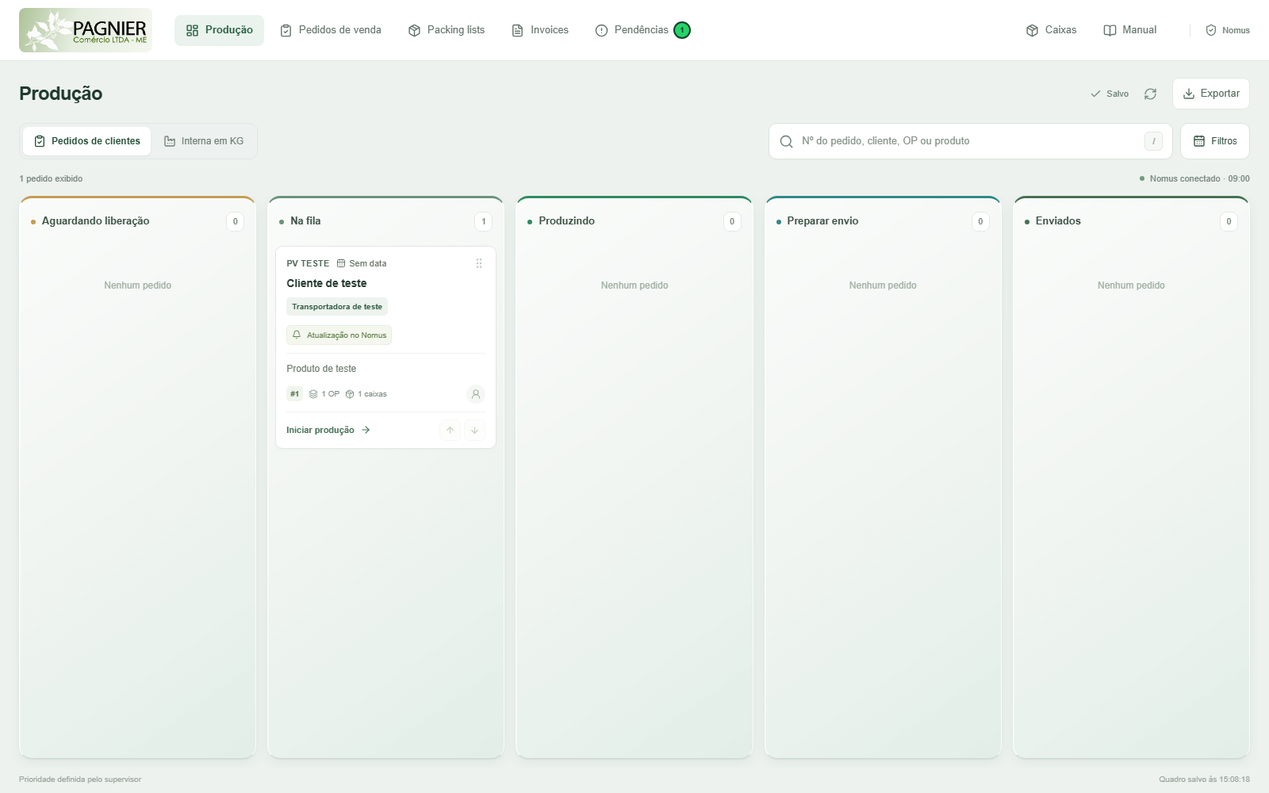
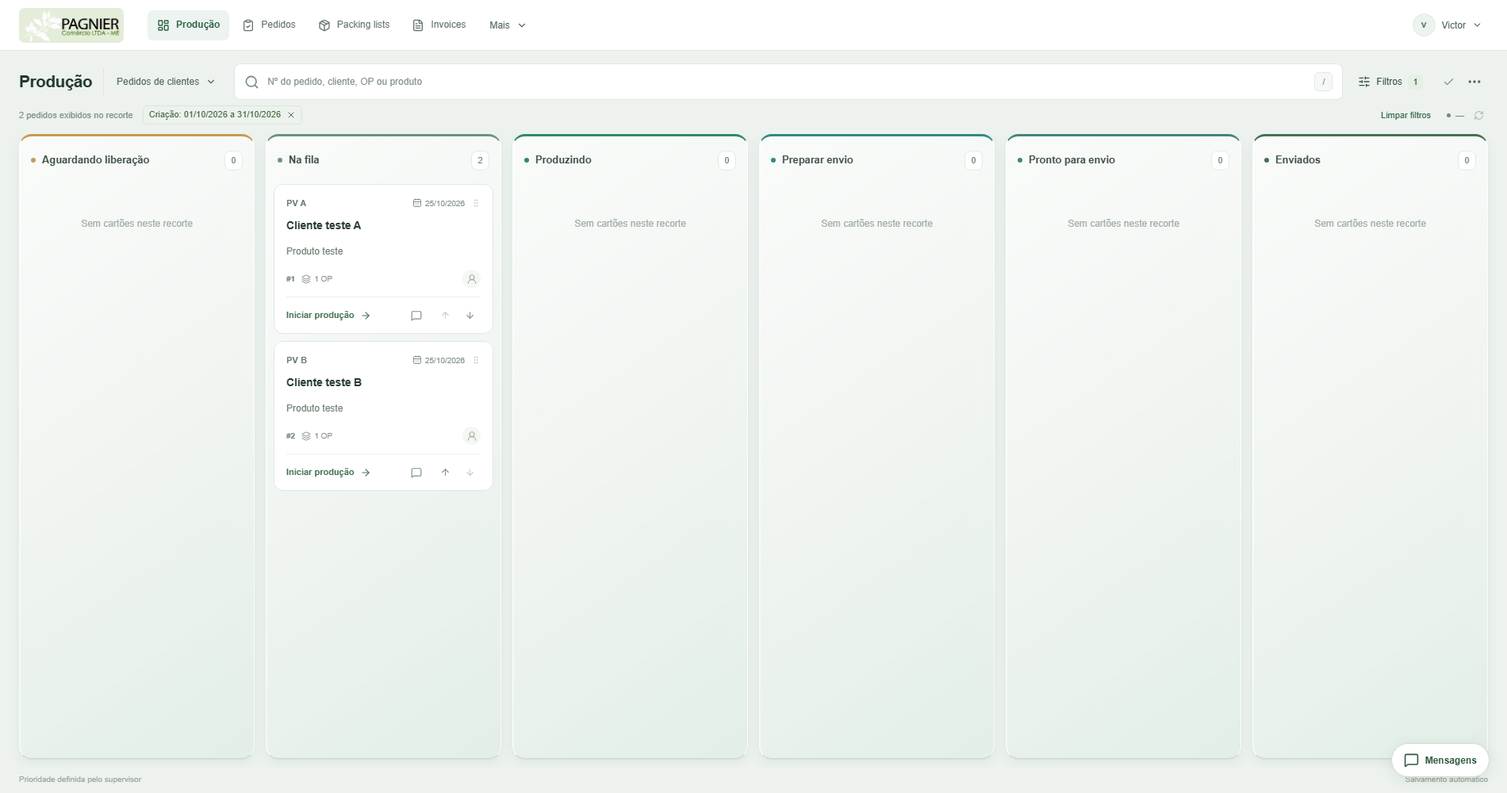
fix: show pending saves and refresh the operating manual

diff --git a/lib/manual.ts b/lib/manual.ts
@@ -22,7 +22,7 @@ export const manual = [
   {
     "category": "documents",
     "title": "Como baixar o packing list em Excel",
-    "text": "Abra Packing lists → envio existente → Revisar e baixar → Baixar Excel editável. Aguarde Salvo. As caixas precisam estar conferidas fisicamente. A planilha contém Packing list, Produtos, Caixas e Guia e pendências. Dados documentais incompletos são sinalizados na planilha e não impedem a cópia editável. O PDF final exige resolver as pendências e confirmar a revisão. Alterações no Excel não voltam ao painel; atualize também o sistema se precisar gerar aqui um PDF com os mesmos dados. Nenhum download registra o despacho."
+    "text": "Abra Packing lists → envio existente → Revisar e baixar → Baixar Excel editável. Aguarde o salvamento e confira fisicamente as caixas. O arquivo tem quatro abas, todas sem linhas ou colunas congeladas: Packing list, Produtos, Caixas e Guia e pendências. A aba principal reúne exportador, comprador/importador, destinatário, condições comerciais, transporte, totais e produtos por caixa. Medidas, pesos e unidades aparecem junto de cada caixa. As abas Produtos e Caixas alimentam as fórmulas da principal. Pendências documentais são sinalizadas e não impedem a cópia editável; o PDF final exige resolvê-las e confirmar a revisão. Alterações no Excel não voltam ao painel. Nenhum download registra despacho."
   },
   {
     "category": "documents",
@@ -47,12 +47,12 @@ export const manual = [
   {
     "category": "start",
     "title": "Menu superior do sistema",
-    "text": "A barra superior reúne Produção, Pedidos de venda, Packing lists, Invoices, Pendências, Caixas e Manual. No celular, deslize o menu na horizontal para acessar as demais opções. No computador, o tipo de produção, a busca e os filtros compartilham a mesma faixa abaixo do título. No celular, os controles se ajustam à largura da tela. Caixas abre os modelos reutilizáveis; a montagem continua dentro de cada envio."
+    "text": "No topo ficam Produção, Pedidos, Packing lists e Invoices. Abra Mais para Pendências, Arquivados, Modelos de caixas e Manual. No menu com seu nome ou suas iniciais ficam o modo claro/escuro e Sair ou trocar funcionário. Em Produção, clique em Pedidos de clientes para alternar para Interna em KG. A busca e Filtros permanecem visíveis; o botão de três pontos abre Recarregar quadro e Exportar planilha. Os mesmos menus funcionam no celular. Escape, clique fora ou saída do foco fecham o menu."
   },
   {
     "category": "production",
     "title": "Aguardando liberação e Na fila",
-    "text": "A primeira coluna do quadro, Aguardando liberação, reúne os pedidos ainda pendentes no Nomus. Havendo itens liberados e OP gerada, o pedido entra em Na fila na próxima consulta, inclusive se a liberação for parcial. No cartão, abra o aviso para ver quais itens ainda não foram liberados; a aba Geral também mostra produto, item e quantidade. Se há itens atendidos e outros ainda pendentes, o pedido com OP permanece na fila e a situação comercial fica recolhida em Ver situação do pedido no Nomus, sem alertar falta de produção. A aba Geral mostra o resumo das OPs com o mesmo cálculo da coluna Produzido na Expedição. O resumo só informa conclusão quando todas as OPs exibidas têm a quantidade produzida completa. Isso não indica produção pendente: uma OP pode ter toda a quantidade produzida enquanto o item do pedido permanece Liberado. O aviso informa a data da consulta do pedido; ao abrir um pedido ele é priorizado na próxima consulta disponível e o botão de atualizar consulta esse pedido diretamente, respeitando os intervalos e eventuais falhas. A quantidade exibida é a pedida, não um saldo calculado. Sem OP, o pedido liberado continua em Pedidos de venda aguardando sua criação. Pedidos já em produção, conferência ou expedição mantêm a etapa e os registros. Consultando liberação indica dados ainda não confirmados. Pedidos já na fila permanecem visíveis na etapa salva, com esse aviso; novos pedidos aguardam no catálogo. Pedidos de venda mantém o catálogo completo enquanto a consulta está incompleta. A liberação é feita no Nomus, sem alterações no ERP pelo painel."
+    "text": "A primeira coluna do quadro, Aguardando liberação, reúne os pedidos ainda pendentes no Nomus. Havendo itens liberados e OP gerada, o pedido entra em Na fila na próxima consulta, inclusive se a liberação for parcial. No cartão, abra o aviso para ver quais itens ainda não foram liberados; a aba Geral também mostra produto, item e quantidade. Se há itens atendidos e outros ainda pendentes, o pedido com OP permanece na fila e a situação comercial fica recolhida em Ver situação do pedido no Nomus, sem alertar falta de produção. A aba Geral mostra o resumo das OPs com o mesmo cálculo da coluna Produzido na Expedição. O resumo só informa conclusão quando todas as OPs exibidas têm a quantidade produzida completa. Isso não indica produção pendente: uma OP pode ter toda a quantidade produzida enquanto o item do pedido permanece Liberado. O aviso informa a data da consulta do pedido; ao abrir um pedido ele é priorizado na próxima consulta disponível e o botão de atualizar consulta esse pedido diretamente, respeitando os intervalos e eventuais falhas. A quantidade exibida é a pedida, não um saldo calculado. Pedidos liberados sem OP continuam em Aguardando liberação até confirmar os dados necessários. Pedidos exclusivamente de revenda, com todos os itens liberados e sem OP confirmada, entram direto em Preparar envio; produtos de fabricação aguardam a criação da OP. Pedidos já em produção, conferência ou expedição mantêm a etapa e os registros. Consultando liberação indica dados ainda não confirmados. Pedidos já na fila permanecem visíveis na etapa salva, com esse aviso; novos pedidos aguardam no catálogo. Pedidos de venda mantém o catálogo completo enquanto a consulta está incompleta. A liberação é feita no Nomus, sem alterações no ERP pelo painel."
   },
   {
     "category": "start",
@@ -72,7 +72,7 @@ export const manual = [
   {
     "category": "production",
     "title": "Pedidos de estoque sem OP",
-    "text": "Em Pedidos de venda, use Separar do estoque quando os produtos estiverem disponíveis e o Nomus confirmar que não há OP. O pedido entra em Preparar envio com seus produtos, seguindo a mesma montagem de caixas, agrupamento e documentação. A ação identifica a forma de atendimento; não confirma saldo nem baixa estoque no Nomus. Mudanças nos itens exigem revisão das caixas."
+    "text": "Artesanatos e demais itens classificados no Nomus como Mercadoria para revenda ou Produtos para revenda seguem automaticamente para Preparar envio quando o pedido está liberado, todos os itens estão liberados ou atendidos parcialmente, os produtos e quantidades estão identificados e a consulta confirma ausência de OP. Não é preciso criar OP nem clicar em Separar do estoque nesses casos. Pedidos mistos com produtos de fabricação seguem o fluxo normal de produção. Pedidos arquivados ou com trabalho iniciado mantêm seus registros. Para outros atendimentos de estoque, Separar do estoque continua disponível em Pedidos quando a liberação e a ausência de OP estiverem confirmadas. A ação não confirma saldo nem baixa estoque no Nomus. Confira fisicamente os produtos e revise as caixas se houver alterações."
   },
   {
     "category": "production",
@@ -107,7 +107,7 @@ export const manual = [
   {
     "category": "expedition",
     "title": "Corrija sem perder o conteúdo",
-    "text": "Em Caixas 40 montadas, selecione a caixa e use Voltar à montagem. Ela retorna à área de criação com seus produtos. Para uma menor já acomodada, Retirar para ajustar devolve a embalagem inteira com o conteúdo. Ajuste, finalize e confira novamente. Mudanças físicas exigem nova pesagem; alterações documentais exigem revisão do documento. Caixas só são excluídas vazias."
+    "text": "Em Caixas 40 montadas, selecione a caixa e use Voltar à montagem. Ela retorna à área de criação com seus produtos. Para uma menor já acomodada, Retirar para ajustar devolve a embalagem inteira com o conteúdo. Ajuste, finalize e confira novamente. Antes de excluir, confira os produtos envolvidos e digite EXCLUIR na confirmação: a exclusão da Caixa 40 retira aquele volume do envio e libera as quantidades para nova montagem. Mudanças físicas exigem nova pesagem e conferência; alterações documentais exigem nova revisão do documento."
   },
   {
     "category": "expedition",
@@ -122,12 +122,12 @@ export const manual = [
   {
     "category": "expedition",
     "title": "Onde configurar os modelos de caixa?",
-    "text": "Abra Configurações de caixas no menu do painel para cadastrar modelos, medidas, limite de peso e tara. Na montagem, escolha o modelo em Modelo para novas caixas antes de criar a Caixa 40. Alterar o cadastro do modelo vale para novas caixas; confira os dados das caixas já existentes. A pesagem real continua sendo feita em Caixas 40 montadas."
+    "text": "Abra Mais → Modelos de caixas para cadastrar medidas, limite de peso e tara. Na montagem, escolha Modelo para novas caixas antes de criar a Caixa 40. A alteração do modelo vale para novas caixas; confira os dados das caixas já existentes. A pesagem real continua sendo feita em Caixas 40 montadas."
   },
   {
     "category": "documents",
     "title": "Qual documento e qual formato usar",
-    "text": "Packing list descreve volumes e pode reunir pedidos; o site gera seu PDF. Invoice FedEx/DHL é comercial, contém um pedido e pode ser exportada em PDF ou Excel editável. Escolha conforme a operação; um não substitui automaticamente o outro. O PDF oficial do pedido de venda continua sendo gerado no Nomus."
+    "text": "Packing list descreve volumes, pode reunir pedidos e pode ser baixado em PDF ou Excel editável. Invoice FedEx/DHL é comercial, contém um pedido e também permite PDF ou Excel. Um documento não substitui automaticamente o outro. O PDF oficial do pedido de venda continua sendo gerado no Nomus."
   },
   {
     "category": "documents",
@@ -148,5 +148,20 @@ export const manual = [
     "category": "support",
     "title": "O que o sistema altera no Nomus",
     "text": "A integração é somente leitura. Prioridades, etapas, notas, caixas, documentos e rastreio são salvos no painel. O site não baixa estoque, fatura pedidos, encerra OPs nem altera o cadastro do Nomus. Exportar CSV considera os pedidos visíveis; informações ausentes podem depender da conclusão das consultas."
+  },
+  {
+    "category": "start",
+    "title": "Como saber se as alterações foram salvas",
+    "text": "Quando o salvamento termina, a barra mostra um sinal de confirmação; passe o mouse para ler Salvo. Enquanto houver mudanças pendentes, aparece Aguardando gravação; durante o envio, Salvando. Não salvo ou Sem sincronização exige atenção ao aviso na tela. Aguarde a confirmação antes de fechar, exportar ou trocar de funcionário. Recarregar quadro fica no menu de três pontos; leia o aviso antes de descartar alterações locais. O horário ao lado do indicador Nomus se refere à consulta do ERP, não ao salvamento das suas alterações."
+  },
+  {
+    "category": "documents",
+    "title": "Comprador, transporte e condições comerciais do packing list",
+    "text": "Em Dados do documento, Informações complementares aparece antes de Destinatário e entrega. Preencha comprador/importador quando diferente, referências e contatos confirmados. Informe país de origem e destino, Incoterm, pagamento, pré-transporte, local de recebimento, voo/navio, portos de embarque e desembarque e destino final conforme cada envio. Valores de demonstração não são padrões. Deixe vazios os opcionais que não se aplicam. Excel e PDF apresentam os dados comerciais e os produtos por caixa; a quantidade de unidades não é repetida em uma coluna extra."
+  },
+  {
+    "category": "support",
+    "title": "Artesanato liberado ainda não apareceu em Preparar envio",
+    "text": "Localize o pedido em Pedidos e confira sua liberação. A classificação de revenda vem do cadastro do produto no Nomus, não de palavras no nome. Verifique se há item de fabricação, item aguardando liberação, consulta pendente ou OP vinculada. Pedidos liberados sem OP têm prioridade para completar a classificação, mas as consultas são feitas por etapas. Use o indicador Nomus para conferir horário e atualizar; recarregar o quadro busca os dados já salvos no painel. Confira também os filtros e Mais → Arquivados antes de criar outro registro."
   }
 ];

diff --git a/lib/tutorials.ts b/lib/tutorials.ts
@@ -1,4 +1,4 @@
-export const manualEdition = {revision:"23",updatedAt:"20/10/2026"};
+export const manualEdition = {revision:"24",updatedAt:"27/10/2026"};
 export const manualCategories = [
   {
     "id": "start",
@@ -49,7 +49,12 @@ export const tutorials = [
       {
         "title": "Entenda o quadro de produção",
         "short": "Aguardando liberação → Na fila → Produzindo → Preparar envio → Pronto para envio → Enviados.",
-        "text": "Aguardando liberação reúne os pedidos pendentes no Nomus. Liberados com OP vão para Na fila; pedidos parcialmente liberados mostram os itens pendentes no cartão. Use os atalhos para iniciar e concluir a produção. O menu superior leva a Pedidos de venda, Packing lists, Invoices, Pendências, Caixas e Manual. No celular, deslize o menu."
+        "text": "Aguardando liberação reúne pedidos ainda não prontos para entrar no fluxo. Produtos de fabricação liberados com OP vão para Na fila. Pedidos somente de revenda, totalmente liberados e sem OP confirmada, vão direto para Preparar envio. Liberações parciais mantêm os itens pendentes identificados no cartão. No topo ficam Produção, Pedidos, Packing lists e Invoices; Mais reúne Pendências, Arquivados, Modelos de caixas e Manual."
+      },
+      {
+        "title": "Encontre as ações recolhidas",
+        "short": "Mais abre as telas de apoio. Seu nome abre tema e saída; os três pontos abrem recarga e exportação.",
+        "text": "A busca e Filtros ficam visíveis. Clique em Pedidos de clientes para alternar para Interna em KG. Os menus funcionam no computador e no celular; Escape fecha o menu e devolve o foco ao controle."
       },
       {
         "title": "Use o cartão do pedido",
@@ -63,8 +68,8 @@ export const tutorials = [
       },
       {
         "title": "Confirme o salvamento",
-        "text": "Aguarde Salvo antes de sair, exportar ou excluir. Consulte Pendências e ajuda se houver falha ou conflito entre sessões.",
-        "short": "Antes de sair, espere aparecer Salvo."
+        "text": "Aguarde o sinal de confirmação de salvamento antes de sair, exportar ou excluir. Passe o mouse no sinal para ler Salvo. Aguardando gravação e Salvando indicam que ainda há trabalho pendente. Não salvo ou Sem sincronização exige conferir o aviso antes de continuar.",
+        "short": "Espere a confirmação de salvamento. Aguardando gravação, Salvando e falhas continuam visíveis."
       },
       {
         "title": "Saiba de onde vêm os dados",
@@ -141,13 +146,13 @@ export const tutorials = [
       },
       {
         "title": "Verifique os vínculos",
-        "text": "Uma OP comum deve estar vinculada ao pedido e ao item correto no Nomus. Se faltar vínculo, consulte Pendências. Não associe somente por semelhança de produto ou cliente.",
-        "short": "Confira se a OP está ligada ao pedido correto. Se faltar vínculo, abra Pendências."
+        "text": "Produtos de fabricação precisam da OP ligada ao pedido e ao item correto no Nomus. Para falhas de vínculo, abra Mais → Pendências. Artesanatos e outros produtos de revenda podem seguir sem OP quando classificados e liberados. Não associe OPs por semelhança de nome.",
+        "short": "Confira o vínculo quando houver produção. Revenda liberada pode seguir sem OP."
       },
       {
         "title": "Identifique o que já existe",
-        "text": "Se o pedido já tiver caixas ou documento, retome o cadastro existente. Se os produtos saem do estoque, use Separar do estoque no catálogo: o pedido entra em Preparar envio sem OP. Aguarde a confirmação de vínculo e os itens completos no Nomus antes dessa ação.",
-        "short": "Se já houver caixas ou documento, abra o cadastro existente."
+        "text": "Retome caixas e documentos existentes. Pedidos compostos apenas por Mercadoria para revenda ou Produtos para revenda entram automaticamente em Preparar envio quando todos os itens estão liberados ou atendidos parcialmente, seus dados estão completos e a ausência de OP está confirmada. Pedidos mistos seguem o fluxo de produção. Separar do estoque continua disponível para os demais atendimentos confirmados de estoque. Essa escolha não registra baixa no Nomus.",
+        "short": "Revenda liberada segue para Preparar envio. Se já houver caixas ou documentos, continue no mesmo cadastro."
       }
     ],
     "done": "Cliente, pedido e origem dos produtos foram conferidos.",
@@ -190,8 +195,8 @@ export const tutorials = [
       },
       {
         "title": "Arquive pedidos antigos",
-        "short": "Abra Outras ações, escolha o motivo e confirme. Consulte o histórico ou restaure um pedido disponível na aba Arquivados.",
-        "text": "No cartão ou em Pedidos de venda, abra Outras ações e escolha um dos motivos de arquivamento listados. Na janela seguinte, preencha a observação se necessário e confirme. O arquivamento é manual e vale para toda a equipe; não depende de concluir produção, conferência ou documentos. Os dados ficam preservados. Para consultar ou restaurar, abra Arquivados no menu principal. Restaurar mantém a etapa anterior e fica disponível enquanto o pedido estiver na base consultada. O histórico registra cada arquivamento e restauração. Nenhuma dessas ações altera o Nomus."
+        "short": "Arquive em Outras ações e consulte ou restaure em Mais → Arquivados.",
+        "text": "No cartão ou em Pedidos, abra Outras ações e escolha o motivo de arquivamento. Preencha a observação quando necessária e confirme. O arquivamento é manual e compartilhado, preserva os dados e não depende de concluir as etapas. Consulte o histórico ou restaure em Mais → Arquivados, enquanto o pedido estiver disponível na base consultada. Nenhuma dessas ações altera o Nomus."
       }
     ],
     "done": "Os produtos estão disponíveis para conferência e as diferenças foram verificadas.",
@@ -289,7 +294,7 @@ export const tutorials = [
       {
         "title": "Pese e meça as caixas montadas",
         "short": "Em Caixas 40 montadas, selecione cada caixa e informe dimensões em cm e peso bruto real em kg.",
-        "text": "Pese a caixa pronta, incluindo produtos, embalagens e proteções. Registre dimensões externas em cm e peso bruto em kg; a conversão para lb é automática. O peso líquido soma os produtos. Limite de peso e tara ficam recolhidos; a tara inclui embalagens vazias e proteções. Caixa 40 é o nome do modelo, não uma medida. Cadastros de modelos ficam no menu Configurações de caixas, fora da montagem. Mudanças físicas no conteúdo exigem nova pesagem."
+        "text": "Pese a caixa pronta, incluindo produtos, embalagens e proteções. Registre dimensões externas em cm e peso bruto em kg; a conversão para lb é automática. O peso líquido soma os produtos. Limite de peso e tara ficam recolhidos; a tara inclui embalagens vazias e proteções. Caixa 40 é o nome do modelo, não uma medida. Cadastros de modelos ficam em Mais → Modelos de caixas, fora da montagem. Mudanças físicas no conteúdo exigem nova pesagem."
       },
       {
         "title": "Confirme a conferência física",
@@ -401,13 +406,13 @@ export const tutorials = [
       },
       {
         "title": "Etapa 2 — Itens e caixas",
-        "short": "Confira descrição documental, HS Code, embalagem, lote e validade dos produtos.",
+        "short": "Confira descrição documental, HS Code, embalagem, unidades e pesos. Lote e validade continuam no cadastro interno.",
         "text": "As caixas precisam da conferência física na Expedição. Se faltar essa confirmação, use o atalho para conferir. Para ajustes físicos, volte à montagem; depois pese e confira novamente. Dados documentais não substituem a contagem física. Se a mesma OP estiver em várias caixas, use Completar dados repetidos para aproveitar apenas os campos documentais vazios. Correções existentes, quantidades, pesos, lotes e validades são preservados; dados divergentes não são propagados."
       },
       {
         "title": "Etapa 3 — Dados do documento",
-        "short": "Preencha invoice, datas, exportador, destinatário, países e responsável pela revisão.",
-        "text": "Use Preencher ou Revisar para localizar campos pendentes. Comprador diferente, referências, transporte e condições comerciais devem corresponder ao envio; dados opcionais podem ficar vazios quando não se aplicarem."
+        "short": "Confira invoice, países, comprador/importador, destinatário, transporte e condições reais do envio.",
+        "text": "Informações complementares aparece antes de Destinatário e entrega. Preencha comprador/importador diferente, referências e contatos quando aplicáveis. Confira países de origem e destino, Incoterm, pagamento, pré-transporte, local de recebimento, voo/navio, portos e destino final. Cada envio usa seus próprios dados; os exemplos não são padrões. Opcionais sem aplicação podem ficar vazios. O responsável pela revisão fica registrado internamente."
       },
       {
         "title": "Etapa 4 — Revisar e baixar",
@@ -416,8 +421,8 @@ export const tutorials = [
       },
       {
         "title": "Se precisar de planilha, baixe o Excel",
-        "short": "Clique em Baixar Excel editável na etapa Revisar e baixar.",
-        "text": "O arquivo .xlsx tem quatro abas: Packing list (referências e totais), Produtos (uma linha por produto em cada caixa), Caixas (medidas e pesos) e Guia e pendências. Após salvar e conferir fisicamente as caixas, é possível baixar a cópia editável mesmo com pendências documentais. Elas são listadas na planilha. O Excel não exige a confirmação de emissão do PDF."
+        "short": "Baixar Excel editável gera quatro abas, todas sem linhas ou colunas congeladas.",
+        "text": "A aba Packing list reúne dados das partes, transporte, condições comerciais, totais e produtos por caixa. Dimensões, pesos e unidades aparecem junto de cada caixa. Produtos e Caixas alimentam as fórmulas da principal; Guia e pendências reúne as orientações. Não há coluna duplicada de quantidade. OP, SKU, lote, validade e nomes internos dos funcionários não integram esse layout de exportação. Após salvar e conferir as caixas, o Excel pode ser baixado com pendências documentais sinalizadas; o PDF final exige resolvê-las e confirmar a revisão."
       },
       {
         "title": "Mantenha os dados consistentes",
@@ -570,8 +575,8 @@ export const tutorials = [
     "steps": [
       {
         "title": "Identifique o tipo de pendência",
-        "text": "Falta vincular o pedido exige correção no Nomus. Aguardando confirmação depende da consulta. O número verde na aba Pendências conta OPs sem vínculo no recorte permitido; abrir a aba não elimina a pendência.",
-        "short": "Abra Pendências e veja se falta vínculo ou se o sistema ainda aguarda a consulta."
+        "text": "Abra Mais → Pendências. Falta vincular o pedido exige correção no Nomus; Aguardando confirmação depende da consulta. O contador de Mais e da opção Pendências indica OPs sem vínculo no recorte permitido. Abrir a tela não elimina a pendência.",
+        "short": "Abra Mais → Pendências e veja se falta vínculo ou se o sistema aguarda a consulta."
       },
       {
         "title": "Corrija o vínculo na origem",
@@ -585,8 +590,8 @@ export const tutorials = [
       },
       {
         "title": "Recupere o salvamento",
-        "text": "Se aparecer Não salvo, mantenha a tela aberta e use Tentar novamente. Se outra sessão mudou o quadro, preserve suas edições e recarregue para conferir a versão compartilhada antes de continuar.",
-        "short": "Se aparecer Não salvo, mantenha a tela aberta e tente novamente. Em conflito, preserve suas edições antes de recarregar."
+        "text": "Se aparecer Não salvo, mantenha a tela aberta e use Tentar novamente. Aguardando gravação e Salvando indicam trabalho ainda pendente. Em conflito entre sessões, preserve suas edições e use Recarregar quadro no menu de três pontos para conferir a versão compartilhada. Recarregar não realiza uma nova consulta ao Nomus; use o indicador do ERP para isso.",
+        "short": "Não salvo: tente novamente. Em conflito, preserve suas edições antes de recarregar pelo menu de três pontos."
       },
       {
         "title": "Confira a última captura",

diff --git a/app/production-dashboard.tsx b/app/production-dashboard.tsx
@@ -286,7 +286,7 @@ export default function Dashboard({employee,sessionActive,onSessionExpired,onSig
  }
  const showCaptureInStrip=!["invoices","packing","help","sales","archived"].includes(tab);
  const nomusCapture=<NomusCapture lastChecked={sync?.lastChecked} configured={sync?.configured} busy={nomusBusy} disabled={!data||!sessionActive} error={syncError} notice={syncNotice} partial={sync?.partial} onRefresh={()=>void refreshNomus.current(true)}/>;
- const saveIndicator=<span title={saveText+" · "+(liveNotice||"Salvamento das alterações do painel")} className={"autosave-status "+(error&&dirty||liveError?"failed":saving?"is-saving":"is-saved")} role="status" aria-live="polite">{saving?<LoaderCircle size={15} className="spin"/>:error&&dirty||liveError?<AlertCircle size={15}/>:<Check size={15}/>}<span>{saveText}</span></span>;
+ const saveIndicator=<span title={saveText+" · "+(liveNotice||"Salvamento das alterações do painel")} className={"autosave-status "+(error&&dirty||liveError?"failed":saving?"is-saving":dirty?"is-pending":"is-saved")} role="status" aria-live="polite">{saving||dirty&&!error?<LoaderCircle size={15} className="spin"/>:error&&dirty||liveError?<AlertCircle size={15}/>:<Check size={15}/>}<span>{saveText}</span></span>;
  function openCard(id:string){if(Date.now()-lastDragEnd.current<300)return;setSelected(id);setDetailTab("overview");setChangeOpen(false)}
  function nextLabel(id:string){const g=groups.find(g=>g.id===id);if(g&&(awaitsRelease(g,board.details[id])||!canQueue(g)&&!hasStarted(board.details[id])))return "Ver pedido";return ({backlog:"Ver pedido",queue:"Iniciar produção",doing:"Concluir produção",blocked:"Ver o impedimento",done:"Conferir pedido",shipping:"Preparar envio",ready:"Ver envio",sent:"Ver rastreio"})[stage(board,id)]}
  function nextAction(id:string){const g=groups.find(g=>g.id===id);if(g&&(awaitsRelease(g,boardRef.current.details[id])||!canQueue(g)&&!hasStarted(boardRef.current.details[id]))){openCard(id);return}const current=stage(boardRef.current,id);if(current==="queue"||current==="doing"){transfer(id,current==="queue"?"doing":"done");return;}if(current==="shipping"){openCard(id);setDetailTab("expedition");return;}openCard(id);setDetailTab(current==="done"?"expedition":(current==="ready"||current==="sent")?"shipping":"overview")}

diff --git a/lib/manual-examples.ts b/lib/manual-examples.ts
@@ -9,7 +9,7 @@ export const manualExamples:Record<string,ManualExample> = {
     ],
     "result": "Você sabe qual pedido está atendendo e qual é a próxima atividade.",
     "image": "quadro.png",
-    "caption": "Quadro do sistema com pedido fictício. As cinco colunas representam as etapas do trabalho."
+    "caption": "Quadro atualizado com pedidos fictícios. As seis colunas representam as etapas do trabalho."
   },
   "handoff": {
     "scenario": "Victor conferiu as caixas, mas saiu antes de preencher o número da invoice.",
@@ -36,14 +36,14 @@ export const manualExamples:Record<string,ManualExample> = {
     "actions": [
       "Abra Novidades neste pedido para comparar Antes e Agora.",
       "Confira com a produção qual quantidade está disponível de fato.",
-      "Consulte Atendido pela produção em Conferir produtos; a mudança de 100 para 80 não prova que 80 foram produzidas."
+      "Consulte Produzido em Conferir produtos; a mudança de 100 para 80 não prova que 80 foram produzidas."
     ],
     "result": "Você separa alteração da programação de quantidade efetivamente produzida."
   },
   "conference": {
     "scenario": "A OP tem 10 unidades, a produção confirmou 7 e há 4 em Caixas 40.",
     "actions": [
-      "Leia Na OP: 10; Atendido pela produção: 7; Em Caixas 40: 4.",
+      "Leia Na OP: 10; Produzido: 7; Em Caixas 40: 4.",
       "Falta embalar mostra 6, pois considera o total programado menos as caixas. Ainda faltam produzir 3.",
       "Confira fisicamente as 3 produzidas ainda fora das caixas antes de embalar."
     ],

diff --git a/README.md b/README.md
@@ -155,3 +155,5 @@ O packing list apresenta países, Incoterm, pagamento e campos de transporte em 
 Pedidos totalmente liberados e sem OP, cujos itens estejam classificados no Nomus como `Mercadoria para revenda` ou `Produtos para revenda`, entram em **Preparar envio**. A consulta prioriza a classificação dos pedidos liberados sem OP, começando pelos mais recentes; o cache antigo incompleto é atualizado mesmo quando a carga inicial já consta como concluída. Pedidos mistos seguem o fluxo de produção.
 
 O cabeçalho mantém Produção, Pedidos, Packing lists e Invoices visíveis. Pendências, Arquivados, modelos de caixas e Manual ficam em Mais; o tema e a saída ficam no menu da conta. A barra de produção mantém busca e filtros, com recarga/exportação no menu de ações e seleção de produção interna recolhida. Os menus fecham com Escape, clique externo ou saída do foco. Validação visual com dados fictícios: `node scripts/check-theme-browser.mjs` após o build, em desktop/celular, nos temas claro/escuro.
+
+Revisão de 27/10/2026: 51/51 verificações automatizadas aprovadas, build Next.js aprovado e testes de navegador do manual e de duas sessões aprovados. A revisão corrigiu o indicador que ocultava a espera de gravação como se estivesse salvo. Manual revisão 24: menus recolhidos, revenda automática, consulta versus recarga do quadro, layout do packing list, Excel sem congelamento e exclusão de caixas. A imagem do quadro usa apenas pedidos fictícios. A auditoria foi feita com fixtures/APIs simuladas e bancos isolados; não realizou gravações no ERP nem publicação na Vercel.
